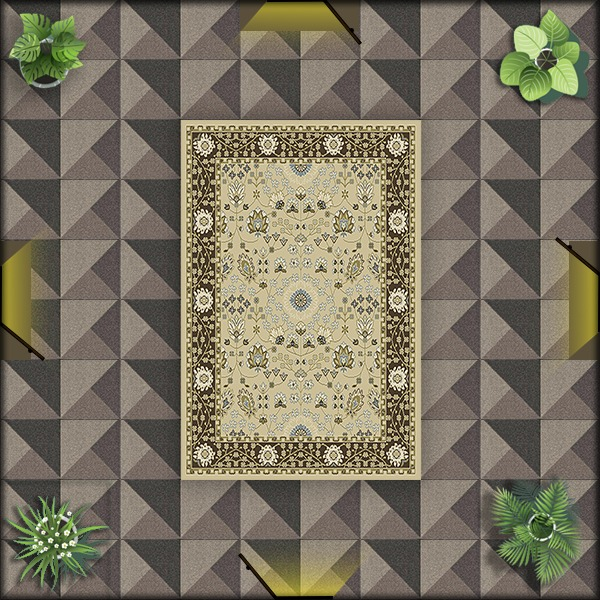
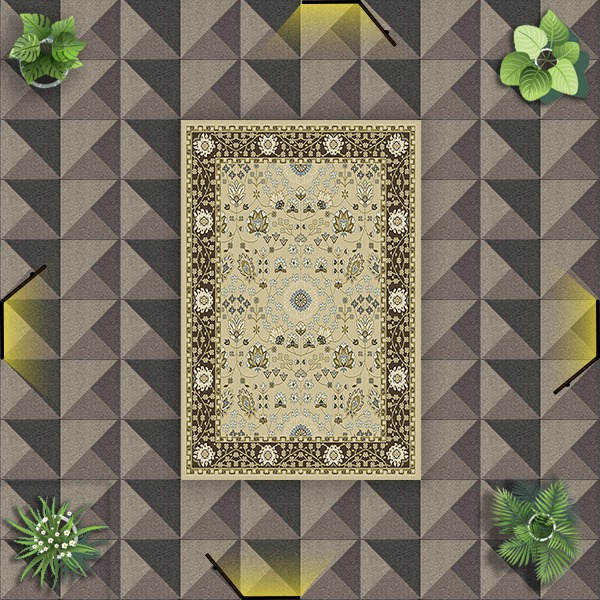
all rooms completed. missing some items posisitons

Changed region(s): [[0.0, 0.0, 1.0, 1.0]]

diff --git a/src/org/academiadecodigo/bootcamp/Room/RoomType.java b/src/org/academiadecodigo/bootcamp/Room/RoomType.java
@@ -4,18 +4,17 @@ import org.academiadecodigo.bootcamp.GameObjects.Doors.Door;
 import org.academiadecodigo.bootcamp.GameObjects.Doors.DoorType;
 import org.academiadecodigo.bootcamp.GameObjects.Items.Item;
 import org.academiadecodigo.bootcamp.GameObjects.Items.ItemType;
-import org.academiadecodigo.simplegraphics.pictures.Picture;
 
-import java.util.Arrays;
+
 
 public enum RoomType {
 
-    DISSECTION_CELL(ItemType.DEAD_ET_BED1, ItemType.DEAD_ET_BED2, ItemType.DEAD_ET_BED3, ItemType.DRAWER1, ItemType.DRAWER2, ItemType.DRAWER3, ItemType.DRAWER4, ItemType.DESK1, ItemType.DESK2, ItemType.DESK3, ItemType.DESK4, DoorType.ONE_TWO, "dissection-room.jpeg"),
+    DISSECTION_CELL(ItemType.DEAD_ET_BED1, ItemType.DEAD_ET_BED2, ItemType.DEAD_ET_BED3, ItemType.DRAWER1, ItemType.DRAWER2, ItemType.DRAWER3, ItemType.DRAWER4, ItemType.DESK1, ItemType.DESK2, ItemType.DESK3, ItemType.DESK4, DoorType.ONE_TWO, "resources/dissection-room.jpeg"),
     SECURITY(ItemType.KEY, ItemType.SAFE1,ItemType.SAFE2, ItemType.CARPET1,ItemType.CARPET2, DoorType.TWO_ONE, DoorType.TWO_THREE, "resources/security.jpeg"),
-    LOBBY(ItemType.TABLE, DoorType.THREE_TWO, DoorType.THREE_FOUR, DoorType.THREE_FIVE, DoorType.THREE_SIX, "dissection-room.jpeg"),
-    MEETING_ROOM(ItemType.CEO, ItemType.DEADBODY, DoorType.FOUR_THREE, "dissection-room.jpeg"),
-    LAB(ItemType.COMPUTER, DoorType.FIVE_THREE, "dissection-room.jpeg"),
-    WAREHOUSE(ItemType.ELVIS, ItemType.ELVIS, ItemType.ELVIS, ItemType.ELVIS, ItemType.ELVIS, ItemType.ELVIS, ItemType.ELVIS, ItemType.ELVIS, ItemType.ELVIS, ItemType.BIKE, ItemType.TLP, DoorType.SIX_THREE, "dissection-room.jpeg"),
+    LOBBY(ItemType.TABLE,DoorType.THREE_TWO, DoorType.THREE_FOUR, DoorType.THREE_FIVE, DoorType.THREE_SIX, "resources/lobby.jpeg"),
+    MEETING_ROOM(ItemType.CEO, ItemType.DEADBODY, DoorType.FOUR_THREE, "resources/meeting_room.jpeg"),
+    LAB(ItemType.COMPUTER1, ItemType.COMPUTER2, ItemType.COMPUTER3, ItemType.COMPUTER4, DoorType.FIVE_THREE, "resources/lab.jpeg"),
+    WAREHOUSE(ItemType.ELVIS, ItemType.ELVIS, ItemType.ELVIS, ItemType.ELVIS, ItemType.ELVIS, ItemType.ELVIS, ItemType.ELVIS, ItemType.ELVIS, ItemType.ELVIS, ItemType.BIKE, ItemType.TLP, DoorType.SIX_THREE, "resources/warehouse.jpeg"),
     EGGXIT(ItemType.ET_GAME_DISK, "dissection-room.jpeg");
 
 
@@ -23,7 +22,6 @@ public enum RoomType {
     private Item[] items;
     private Door[] doors;
     private String pic;
-    //private boolean isActive;    //is set as current room or not
 
 
 
@@ -81,12 +79,15 @@ public enum RoomType {
         this.pic = imagePath;
     }
 
-    //rooms with 1 item and 1 door
-    RoomType(ItemType type1, DoorType type2, String imagePath) {
-        this.items = new Item[1];
+    //rooms with 4 items and 1 door
+    RoomType(ItemType type1, ItemType type2, ItemType type3, ItemType type4, DoorType type5, String imagePath) {
+        this.items = new Item[4];
         this.items[0] = new Item(type1);
+        this.items[1] = new Item(type2);
+        this.items[2] = new Item(type3);
+        this.items[3] = new Item(type4);
         this.doors = new Door[1];
-        this.doors[0] = new Door(type2);
+        this.doors[0] = new Door(type5);
         this.pic = imagePath;
     }
 

diff --git a/src/org/academiadecodigo/bootcamp/Game.java b/src/org/academiadecodigo/bootcamp/Game.java
@@ -65,15 +65,19 @@ public class Game implements KeyboardHandler {
         switch (keyboardEvent.getKey()) {
             case KeyboardEvent.KEY_LEFT:
                 et.goLeft();
+                System.out.println("posição: " + et.getPos());
                 break;
             case KeyboardEvent.KEY_RIGHT:
                 et.goRight();
+                System.out.println("posição: " + et.getPos());
                 break;
             case KeyboardEvent.KEY_UP:
                 et.goUp();
+                System.out.println("posição: " + et.getPos());
                 break;
             case KeyboardEvent.KEY_DOWN:
                 et.goDown();
+                System.out.println("posição: " + et.getPos());
                 break;
             case KeyboardEvent.KEY_SPACE:
                 interact();
@@ -119,17 +123,15 @@ public class Game implements KeyboardHandler {
                     currentRoom.setPicture(new Picture(Position.PADDING, Position.PADDING, currentRoom.getItems()[i].getImage(currentRoom.getItems()[i])));
                     currentRoom.getPicture().draw();
                     et.getPic().delete();
+                    System.out.println("teste1");
 
                     for (int j = 0; j < RoomType.values().length; j++) {
                         if (RoomType.values()[j].getPic().equals(currentRoom.getItems()[i].getImage(currentRoom.getItems()[i]))) {                               //se nome da imagem de Door é = ao nome da imagem de RoomType
+                            et = new ET(((Door) currentRoom.getItems()[i]).getType().getEtCol(), ((Door) currentRoom.getItems()[i]).getType().getEtRow());
+                            //this.et = et;
                             currentRoom = new Room(RoomType.values()[j]);
-                            ET et = new ET(((Door) currentRoom.getItems()[i]).getType().getEtCol(), ((Door) currentRoom.getItems()[i]).getType().getEtRow());
-                            //ET et = new ET(0,5);
-                            this.et = et;
-
-                            et.getPic().draw();
-                            et.getPic().translate(et.getPos().getCol() * Position.CELL_SIZE, et.getPos().getRow() * Position.CELL_SIZE);
-                            //et.show();
+                            System.out.println("teste2");
+                            et.show();
                             return;
                         }
                     }

diff --git a/src/org/academiadecodigo/bootcamp/GameObjects/Doors/DoorType.java b/src/org/academiadecodigo/bootcamp/GameObjects/Doors/DoorType.java
@@ -4,16 +4,16 @@ import org.academiadecodigo.bootcamp.Position;
 
 public enum DoorType {
 
-    ONE_TWO(9, 5, "resources/security.jpeg", 0, 5),
+    ONE_TWO(9, 5, "resources/security.jpeg", 0, 5),  //ok
     TWO_ONE(0, 5, "resources/dissection-room.jpeg",9 ,5),
-    TWO_THREE(9, 5, "resources/lobby.jpeg",0 ,0 ),
-    THREE_TWO(1, 1, "resources/security.jpeg",0 ,0 ),
-    THREE_FOUR(1, 1, "resources/lab.jpeg",0 ,0 ),
-    FOUR_THREE(1, 1, "resources/lobby.jpeg",0 ,0 ),
-    THREE_FIVE(1, 1, "Entering Lab...",0 ,0 ),
-    FIVE_THREE(1, 1, "Entering Lobby...",0 ,0),
-    THREE_SIX(1, 1, "Entering Warehouse...",0 ,0 ),
-    SIX_THREE(1, 1, "Entering Lobby...",0 ,0 );
+    TWO_THREE(9, 5, "resources/lobby.jpeg",0 ,5),
+    THREE_TWO(0, 5, "resources/security.jpeg",9 ,5),
+    THREE_FOUR(9, 5, "resources/meeting_room.jpeg",0 ,5),
+    FOUR_THREE(0, 5, "resources/lobby.jpeg",9 ,5),
+    THREE_FIVE(5, 0, "resources/lab.jpeg",5 ,9),
+    FIVE_THREE(5, 9, "resources/lobby.jpeg",5 ,0),
+    THREE_SIX(4, 9, "resources/warehouse.jpeg",4 ,0),
+    SIX_THREE(4, 0, "resources/lobby.jpeg",4 ,9);
 
 
     //PROPERTIES

diff --git a/src/org/academiadecodigo/bootcamp/GameObjects/Items/ItemType.java b/src/org/academiadecodigo/bootcamp/GameObjects/Items/ItemType.java
@@ -23,7 +23,10 @@ public enum ItemType {
     TABLE(1, 2, "notes/table.png"),
     CEO(1, 2, "notes/CEO.png"),
     DEADBODY(1, 2, "notes/deadBody.png"),
-    COMPUTER(1, 2, "notes/computer.png"),
+    COMPUTER1(0, 8, "notes/computer.png"),
+    COMPUTER2(1, 8, "notes/computer.png"),
+    COMPUTER3(0, 9, "notes/computer.png"),
+    COMPUTER4(1, 9, "notes/computer.png"),
     ELVIS(1, 2, "notes/elvis.png"),
     BIKE(1, 2, "notes/bike.png"),
     TLP(1, 2, "notes/tlp.png"),

diff --git a/src/org/academiadecodigo/bootcamp/Position.java b/src/org/academiadecodigo/bootcamp/Position.java
@@ -83,5 +83,11 @@ public class Position {
     }
 
 
-
+    @Override
+    public String toString() {
+        return "Position{" +
+                "col=" + col +
+                ", row=" + row +
+                '}';
+    }
 }
